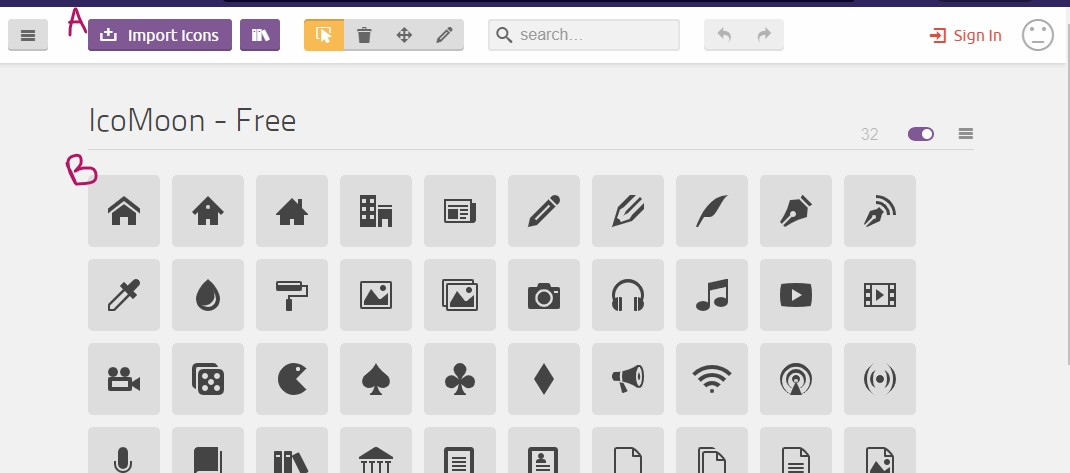
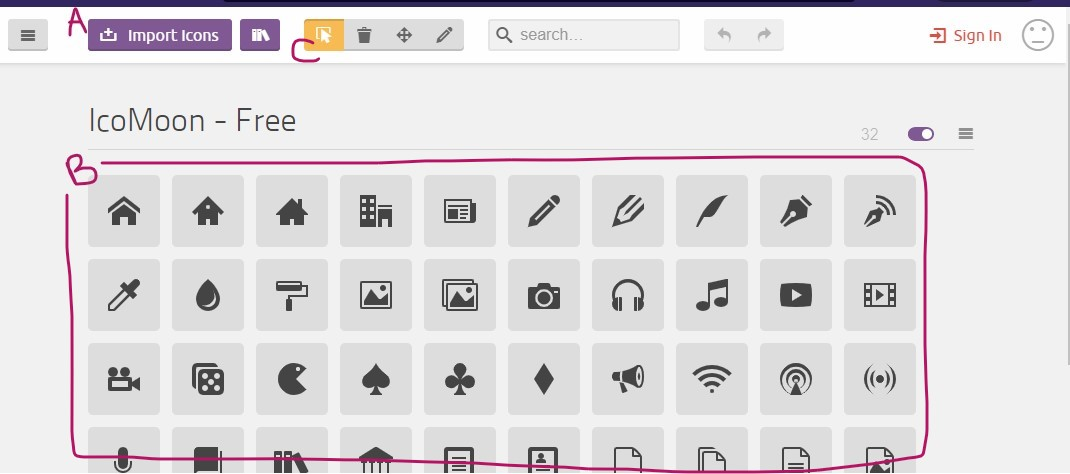
Update ressources for TD2@inte-web-s2

diff --git a/integration-web-s2/travaux-dirigés/numero-2/ressources/icones/style.scss b/integration-web-s2/travaux-dirigés/numero-2/ressources/icones/style.scss
@@ -14,6 +14,8 @@ img {
   --text-couleur-principale: #334357;
 }
 
+// Permet d'activer un thème sombre 
+// pour les utilisateurs qui ont activé le thème sombre sur leur ordinateur
 @media (prefers-color-scheme: dark) {
   :root {
     --bg-couleur: #181e24;
@@ -42,6 +44,7 @@ html {
   --bg-couleur: #000;
   --bordure-couleur: #000;
   --text-couleur: #fff;
+
   @media (prefers-color-scheme: dark) {
     --bg-couleur: #fff;
     --bordure-couleur: var(--bg-couleur);
@@ -51,7 +54,7 @@ html {
   legend {
     background-color: var(--bg-couleur);
     color: var(--text-couleur);
-    padding: 3px 6px;
+    padding: 0.1875rem 0.375rem;
     margin-bottom: 1rem;
     font-size: 2rem;
   }
@@ -67,6 +70,11 @@ html {
     }
   }
 
+  .informations {
+    margin-bottom: 1.5rem;
+    font-size: 1rem;
+  }
+
   .liste-champs {
     // Ici on n'utilise pas de flexbox, mais du CSS Grid
     // C'est la petite-soeur de flexbox, beaucoup plus puissant
@@ -74,7 +82,7 @@ html {
     // Il existe des générateurs en ligne
     display: grid;
     grid-template-columns: repeat(2, 1fr);
-    grid-gap: 15px;
+    grid-gap: 0.975rem;
     align-items: center;
 
     @media screen and (max-width: 767px) {
@@ -101,7 +109,7 @@ html {
 
     input,
     select {
-      padding: 10px 8px;
+      padding: 0.625rem 0.5rem;
       margin-left: 0.9rem;
       width: 100%;
       font-size: 1rem;

diff --git a/integration-web-s2/travaux-dirigés/numero-2/ressources/icones/index.html b/integration-web-s2/travaux-dirigés/numero-2/ressources/icones/index.html
@@ -52,6 +52,7 @@
                     <ul class="liste-consignes">
                         <li>A : Permet d'importer des icones personnalisées. Format .svg ou .json</li>
                         <li>B : Permet de sélectionner des des icônes proposées par icomoon</li>
+                        <li>C : Boite à outils</li>
                     </ul>
                 </article>
                 <article class="block-consigne">
@@ -126,6 +127,7 @@
         <form action="" class="form-resaux-sociaux">
             <fieldset>
                 <legend>Liez vos comptes à notre service</legend>
+                <p class="informations">Entrez votre pseudonyme pour chacun de ces services</p>
 
                 <section class="liste-champs">
                     <div class="champ-conteneur">
